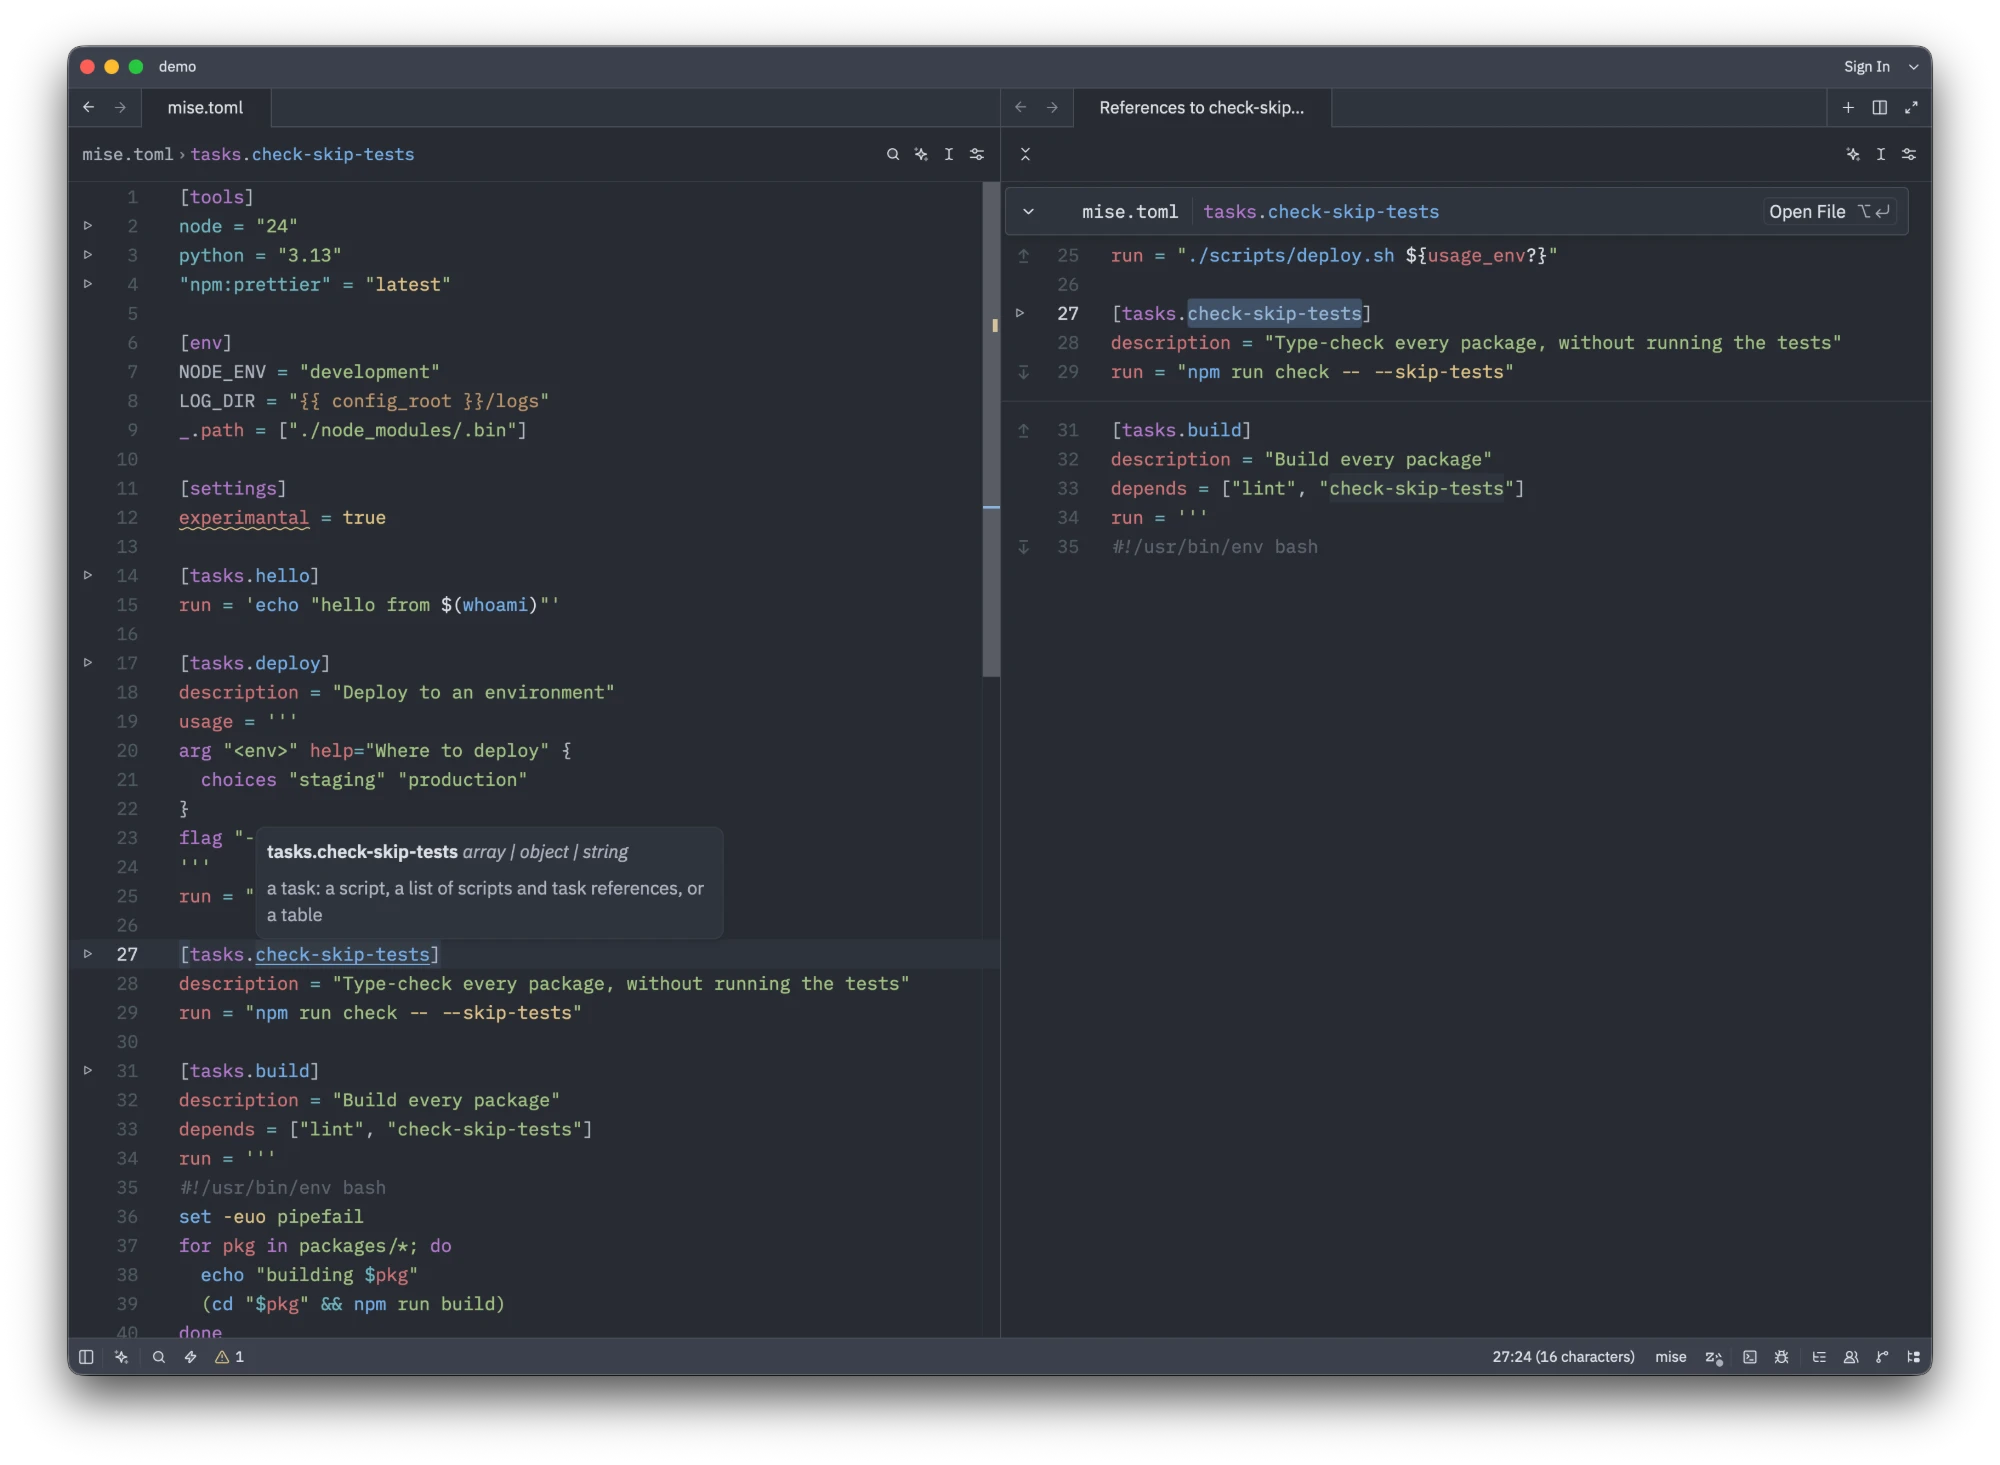
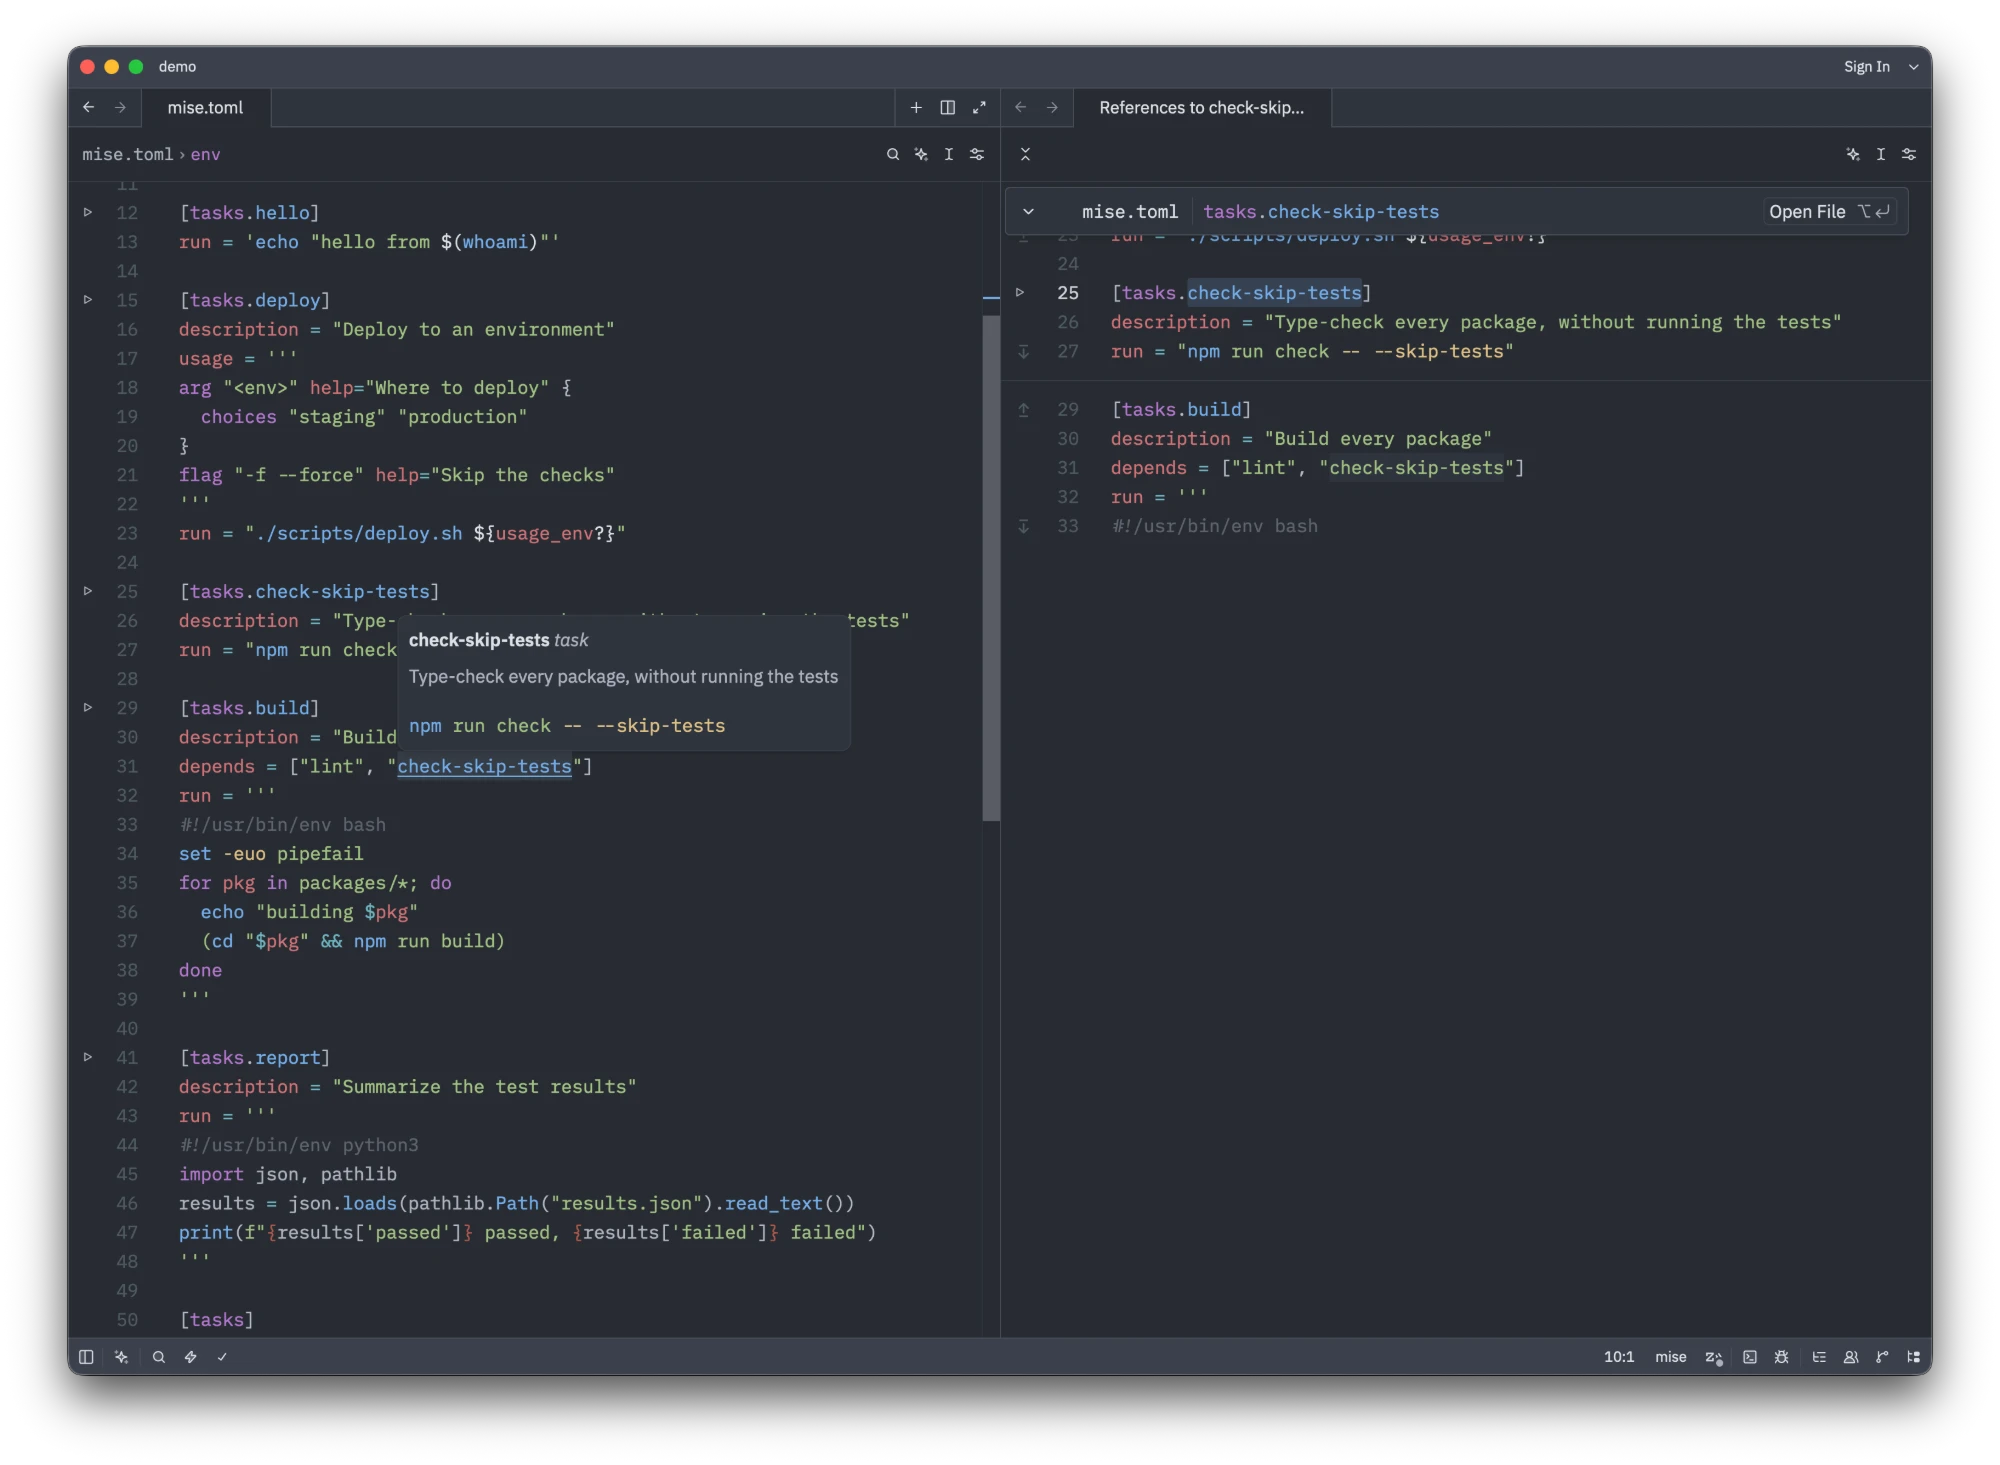
docs: the references screenshot with the narrowed highlights

diff --git a/doc/development.md b/doc/development.md
@@ -95,8 +95,9 @@ completion, the outline panel and the diagnostics panel. Open a copy of that
 folder outside git, so that the title has no branch and lines no blame, in Zed
 with the extension and a mise that has `mise lsp`, to take it again.
 
-`screenshots/mise-zed-tasks.webp` shows the same file with the references of
-`check-skip-tests`, underlined as a link to its definition.
+`screenshots/mise-zed-tasks.webp` shows the same file, without its `[settings]`,
+with the references of `check-skip-tests` and its hover in the `depends` of
+`build`, underlined as a link to its definition.
 
 ## Licenses
 
